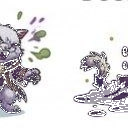
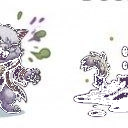
fix(game): boss overhaul — dialog fix, 10 HP, portal pasti terbuka, tak jatuh, PNG bersih
- Dialog: layout() tanpa API yang bisa crash (estLines manual, wordWrap diset sekali) — box selalu terposisi
- bossHit cooldown 250ms anti multi-trigger + HP 10 pip (boss tidak 1-hit mati)
- Boss mati -> morph -> dialog -> openPortal() + spawnGildedMushroom() — portal pasti muncul
- Clamp wander ±320px dari homeX — boss tak jatuh keluar arena
- Alpha atlas luna reclean (thr 120, soft 60) — background kasar hilang

diff --git a/src/game/scenes/MainScene.ts b/src/game/scenes/MainScene.ts
@@ -141,7 +141,8 @@ export class MainScene extends Phaser.Scene {
   private dialog!: DialogSystem;
   private introDone = false;
   private bossActive = false;
-  private bossHealth = 3;
+  private bossHealth = 10;
+  private bossMaxHealth = 10;
   private bossLuna!: Phaser.Physics.Arcade.Sprite;
   private bossMinions!: Phaser.Physics.Arcade.Group;
   private bossHPBar!: Phaser.GameObjects.Graphics;
@@ -150,6 +151,8 @@ export class MainScene extends Phaser.Scene {
   private playerLocked = false;
   /** waktu acak berikutnya boss mengubah arah (AI random walk) */
   private bossNextWander = 0;
+  /** cooldown hit boss (anti multi-trigger per tembakan) */
+  private lastBossHitTime = 0;
 
   constructor() {
     super({ key: 'MainScene' });
@@ -166,7 +169,7 @@ export class MainScene extends Phaser.Scene {
     this.dashCooldown = false;
     this.introDone = false;
     this.bossActive = false;
-    this.bossHealth = 3;
+    this.bossHealth = 10;
     this.playerLocked = false;
   }
 
@@ -1159,7 +1162,7 @@ export class MainScene extends Phaser.Scene {
   private spawnBossLuna() {
     if (this.bossActive || this.currentLevel !== 3) return;
     this.bossActive = true;
-    this.bossHealth = 3;
+    this.bossHealth = 10;
 
     const groundY = this.physics.world.bounds.height - (this.scale.width < 768 ? 110 : 40);
     const x = this.portal.x - 320;
@@ -1221,7 +1224,7 @@ export class MainScene extends Phaser.Scene {
     m.setVelocityX(this.player.x < m.x ? -120 : 120);
   }
 
-  /** HP bar boss — 3 pip hati kecil di atas kepala */
+  /** HP bar boss — 10 pip di atas kepala */
   private drawBossHP() {
     if (!this.bossHPBar) return;
     this.bossHPBar.clear();
@@ -1230,15 +1233,20 @@ export class MainScene extends Phaser.Scene {
     const by = this.bossLuna.y - 92;
     this.bossHPBar.fillStyle(0x000000, 0.6);
     this.bossHPBar.fillRect(bx - 3, by - 3, 98, 16);
-    for (let i = 0; i < 3; i++) {
+    const pipW = 92 / this.bossMaxHealth;
+    for (let i = 0; i < this.bossMaxHealth; i++) {
       const filled = i < this.bossHealth;
       this.bossHPBar.fillStyle(filled ? 0xff2e63 : 0x442233, filled ? 1 : 0.6);
-      this.bossHPBar.fillRect(bx + i * 32, by, 30, 10);
+      this.bossHPBar.fillRect(bx + i * pipW, by, pipW - 2, 10);
     }
   }
 
   private bossHit() {
     if (!this.bossActive) return;
+    // cooldown: bullet overlap bisa multi-trigger per tembakan
+    if (this.time.now - this.lastBossHitTime < 250) return;
+    this.lastBossHitTime = this.time.now;
+
     this.bossHealth--;
     soundFx.playHit();
     this.particleEmitter.explode(18, this.bossLuna.x + 30, this.bossLuna.y - 20);
@@ -1246,7 +1254,7 @@ export class MainScene extends Phaser.Scene {
     this.drawBossHP();
 
     if (this.bossHealth <= 0) {
-      // Boss kalah -> fade -> kucing putih baik
+      // Boss kalah -> fade -> morph kucing putih baik -> dialog -> portal+jamur
       this.bossActive = false;
       this.bossLuna.setVelocityX(0);
       this.bossLuna.play('luna_die_anim', true);
@@ -1254,16 +1262,12 @@ export class MainScene extends Phaser.Scene {
       this.bossHPBar.clear();
 
       this.time.delayedCall(700, () => {
-        // minion hilang
         this.bossMinions.clear(true, true);
-
-        // fade lalu morph
         this.tweens.add({
           targets: this.bossLuna,
           alpha: 0,
           duration: 500,
           onComplete: () => {
-            // morph: ganti ke kucing putih baik
             this.bossLuna.setTexture('luna_good');
             this.bossLuna.setAlpha(0);
             this.bossLuna.setScale(1.0);
@@ -1272,12 +1276,11 @@ export class MainScene extends Phaser.Scene {
               alpha: 1,
               duration: 600,
               onComplete: () => {
-                // cutscene akhir: Luna baik berbicara, lalu portal+jamur
                 this.playerLocked = true;
                 this.time.delayedCall(50, () => {
                   this.dialog.show(STORY_ENDING, () => {
                     this.playerLocked = false;
-                    // Luna baik melompat pergi (fade), portal+jamur muncul
+                    // Luna baik melompat pergi, portal+jamur muncul
                     this.tweens.add({
                       targets: this.bossLuna,
                       x: this.bossLuna.x + 260,
@@ -1295,14 +1298,17 @@ export class MainScene extends Phaser.Scene {
         });
       });
     } else {
-      // Boss marah: attack — claw dash + lompat
+      // Boss marah: claw dash + lompat serang
       const dir = this.player.x < this.bossLuna.x ? -1 : 1;
       this.bossLuna.play('luna_attack_anim', true);
       this.bossLuna.setVelocityX(dir * 180);
       if (this.bossLuna.body!.blocked.down) {
-        this.bossLuna.setVelocityY(-380); // lompat serang
+        this.bossLuna.setVelocityY(-380);
       }
-      this.spawnMinion(this.bossLuna.x + (dir > 0 ? -50 : 50), this.physics.world.bounds.height - (this.scale.width < 768 ? 110 : 40));
+      this.spawnMinion(
+        this.bossLuna.x + (dir > 0 ? -50 : 50),
+        this.physics.world.bounds.height - (this.scale.width < 768 ? 110 : 40)
+      );
     }
   }
 
@@ -1479,12 +1485,12 @@ export class MainScene extends Phaser.Scene {
       }
     });
 
-    // Boss Luna AI: random walk + attack player
+    // Boss Luna AI: random walk terbatas arena, attack player
     if (this.bossActive && this.bossLuna?.active) {
       const now = this.time.now;
+      const homeX = this.portal.x - 320;
 
       if (now > this.bossNextWander) {
-        // pilih aksi random: kiri / kanan / diam / lompat
         const roll = Math.random();
         if (roll < 0.35) {
           this.bossLuna.setVelocityX(-90);
@@ -1493,12 +1499,21 @@ export class MainScene extends Phaser.Scene {
           this.bossLuna.setVelocityX(90);
           this.bossLuna.setFlipX(true);
         } else if (roll < 0.85 && this.bossLuna.body!.blocked.down) {
-          this.bossLuna.setVelocityY(-420); // lompat random
+          this.bossLuna.setVelocityY(-420);
           this.bossLuna.play('luna_jump_anim', true);
         } else {
           this.bossLuna.setVelocityX(0);
         }
         this.bossNextWander = now + 700 + Math.random() * 900;
+      }
+
+      // Clamp posisi: jangan sampai jatuh keluar arena
+      if (this.bossLuna.x < homeX - 320) {
+        this.bossLuna.x = homeX - 320;
+        this.bossLuna.setVelocityX(90);
+      } else if (this.bossLuna.x > homeX + 320) {
+        this.bossLuna.x = homeX + 320;
+        this.bossLuna.setVelocityX(-90);
       }
 
       // animasi sesuai kondisi
@@ -1515,7 +1530,7 @@ export class MainScene extends Phaser.Scene {
 
       // serang player jika dekat
       const dist = Phaser.Math.Distance.Between(this.bossLuna.x, this.bossLuna.y, this.player.x, this.player.y);
-      if (dist < 260 && Math.abs(this.bossLuna.y - this.player.y) < 200 && now > this.bossNextWander - 300) {
+      if (dist < 260 && Math.abs(this.bossLuna.y - this.player.y) < 200) {
         const dir = this.player.x < this.bossLuna.x ? -1 : 1;
         this.bossLuna.setVelocityX(dir * 150);
         this.bossLuna.setFlipX(dir > 0);

diff --git a/src/game/scenes/DialogSystem.ts b/src/game/scenes/DialogSystem.ts
@@ -47,11 +47,12 @@ export class DialogSystem {
       color: '#FEE440',
       fontStyle: 'bold',
     });
+    // wordWrap diset SEKALI di sini (width aman utk semua ukuran layar)
     this.textLabel = this.scene.add.text(0, 0, ' ', {
       fontFamily: 'monospace',
       fontSize: '13px',
       color: '#F0EBDC',
-      wordWrap: { width: 300 },
+      wordWrap: { width: 460 },
       lineSpacing: 5,
     });
     this.nextHint = this.scene.add
@@ -82,28 +83,24 @@ export class DialogSystem {
 
   /** Posisi & ukuran semua elemen — dipanggil saat create & resize */
   private layout() {
-    // Guard: texture Text canvas bisa belum siap saat resize awal
-    try {
-      const W = this.scene.scale.width;
-      const isMobile = W < 768;
+    const W = this.scene.scale.width;
+    const isMobile = W < 768;
 
-      const boxW = Math.min(W - 20, 620);
-      // Top-anchored: di bawah HUD atas (NYAWA/STARDUST ~85px), di atas karakter
-      const hudH = isMobile ? 95 : 75;
-      const portrait = 64;
-      const padX = portrait + 26; // margin kiri utk teks
-      const textW = boxW - padX - 24;
+    const boxW = Math.min(W - 20, 620);
+    // Top-anchored: di bawah HUD atas (NYAWA/STARDUST ~85px), di atas karakter
+    const hudH = isMobile ? 95 : 75;
+    const portrait = 64;
+    const padX = portrait + 26; // margin kiri utk teks
+    const textW = Math.max(boxW - padX - 24, 120);
 
-      // Tinggi box dinamis: muat teks penuh + nama
-      // setWordWrapWidth hanya saat teks ada (avoid drawImage null di canvas kosong)
-      if (this.textLabel.text.length > 0) {
-        this.textLabel.setWordWrapWidth(Math.max(textW, 120), true);
-      }
-      const textH = this.textLabel.height || 40;
-      const boxH = Math.max(96, textH + 58);
+    // Tinggi box dinamis dari teks (wordWrap width DIHITUNG, tak set ulang API —
+    // hindari drawImage null crash)
+    const estLines = Math.ceil(this.textLabel.text.length * 7.8 / textW) || 1;
+    const textH = Math.max(estLines * 18, 20);
+    const boxH = Math.max(96, textH + 58);
 
-      const boxX = (W - boxW) / 2;
-      const boxY = hudH + 6; // sedikit di bawah HUD
+    const boxX = (W - boxW) / 2;
+    const boxY = hudH + 6; // sedikit di bawah HUD
 
     // Box
     this.box.setPosition(boxX + boxW / 2, boxY + boxH / 2);
@@ -111,22 +108,17 @@ export class DialogSystem {
     this.box.setStrokeStyle(2, 0xFEE440, 1);
 
     // Potret kiri (vertikal center)
+    const frame = this.container.list[1] as Phaser.GameObjects.Rectangle;
     this.portrait.setPosition(boxX + portrait / 2 + 12, boxY + boxH / 2);
-    (this.container.list[1] as Phaser.GameObjects.Rectangle).setPosition(
-      boxX + portrait / 2 + 12,
-      boxY + boxH / 2
-    );
-    (this.container.list[1] as Phaser.GameObjects.Rectangle).setSize(portrait, portrait);
+    frame.setPosition(boxX + portrait / 2 + 12, boxY + boxH / 2);
+    frame.setSize(portrait, portrait);
 
     // Nama + teks
     this.nameLabel.setPosition(boxX + padX, boxY + 12);
     this.textLabel.setPosition(boxX + padX, boxY + 36);
 
-      // Hint kanan bawah
-      this.nextHint.setPosition(boxX + boxW - 62, boxY + boxH - 18);
-    } catch {
-      // Texture canvas belum siap — layout ulang nanti via resize event
-    }
+    // Hint kanan bawah
+    this.nextHint.setPosition(boxX + boxW - 62, boxY + boxH - 18);
   }
 
   get isActive(): boolean {

diff --git a/scripts/reclean_luna.py b/scripts/reclean_luna.py
@@ -1,0 +1,42 @@
+#!/usr/bin/env python3
+"""Re-slice luna atlas: alpha lebih bersih (bg putih hilang total, fringe minim)."""
+from PIL import Image
+import numpy as np
+
+SRC = 'public/assets/game/luna/luna-sheet.jpg'
+im = Image.open(SRC).convert('RGB')
+CELL = 128
+ROW_TOP = (60, 188)
+ROW_BOT = (248, 376)
+
+def clean_alpha(a):
+    dist = np.abs(a[:, :, :3] - 255).sum(axis=2)
+    alpha = np.where(dist < 120, 0, 255).astype(np.uint8)
+    soft = (dist >= 120) & (dist < 190)
+    alpha[soft] = 60
+    return np.dstack([a[:, :, :3], alpha]).astype(np.uint8)
+
+ROWS = {
+    'luna_idle':   (ROW_TOP, [0, 1, 2]),
+    'luna_walk':   (ROW_TOP, [4, 5, 6, 7]),
+    'luna_jump':   (ROW_BOT, [0, 1]),
+    'luna_die':    (ROW_BOT, [2]),
+    'luna_attack': (ROW_BOT, [3, 4, 5]),
+}
+
+for anim, ((y0, y1), cols) in ROWS.items():
+    frames = []
+    for ci in cols:
+        crop = im.crop((ci * CELL, y0, ci * CELL + CELL, y1))
+        rgba = clean_alpha(np.array(crop))
+        frames.append(Image.fromarray(rgba, 'RGBA'))
+    strip = Image.new('RGBA', (CELL * len(frames), y1 - y0), (0, 0, 0, 0))
+    for i, f in enumerate(frames):
+        strip.paste(f, (i * CELL, 0))
+    strip.save(f'public/assets/game/luna/{anim}.png')
+    print(anim, strip.size)
+
+proj = im.crop((768, 248, 1024, 376))
+rgba = clean_alpha(np.array(proj))
+Image.fromarray(rgba, 'RGBA').save('public/assets/game/luna/luna_projectile.png')
+print('projectile ok')
